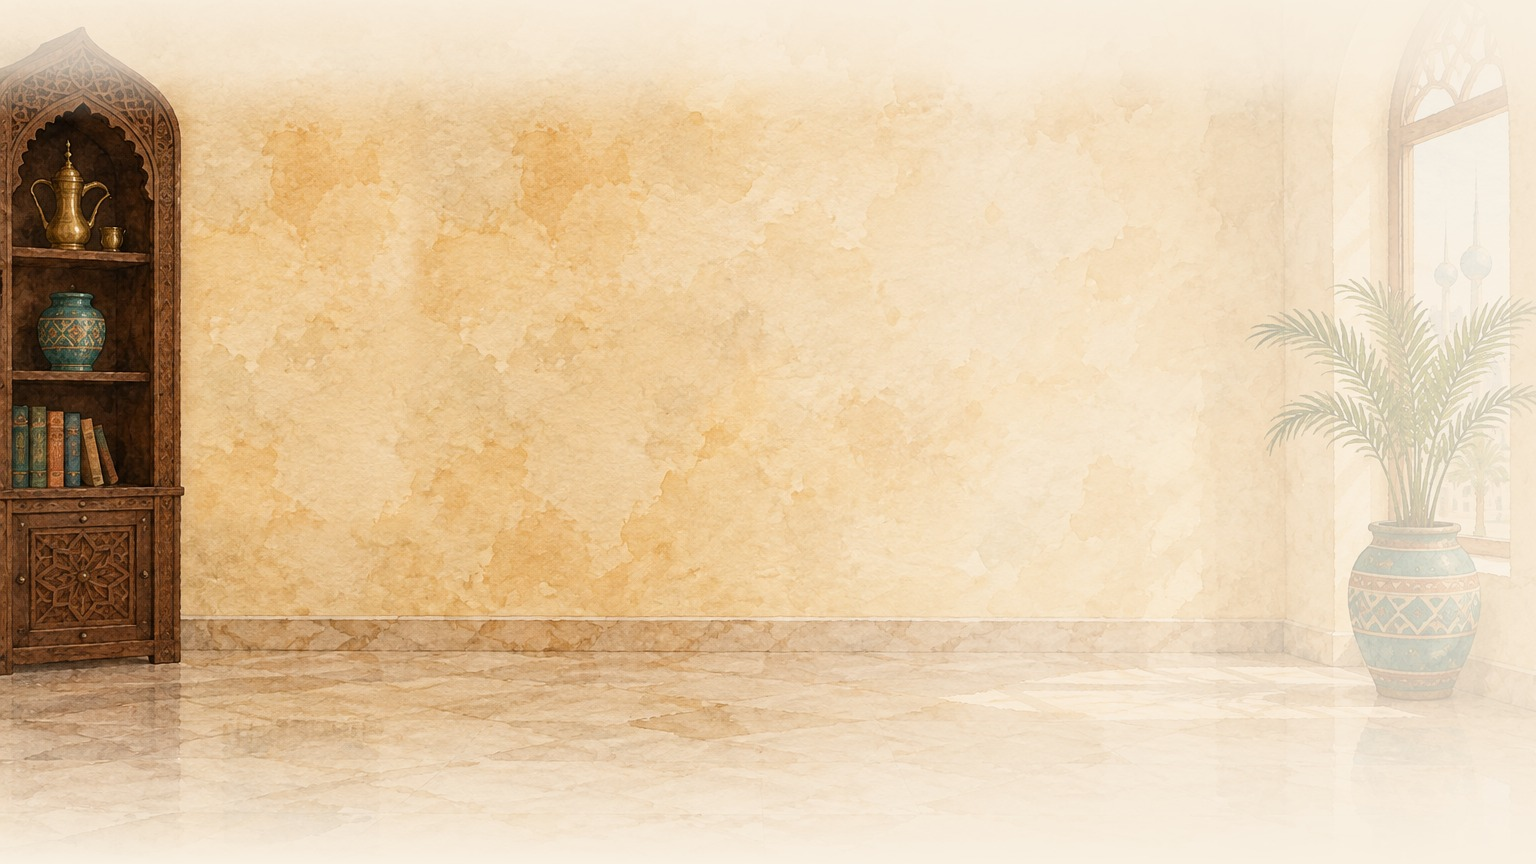
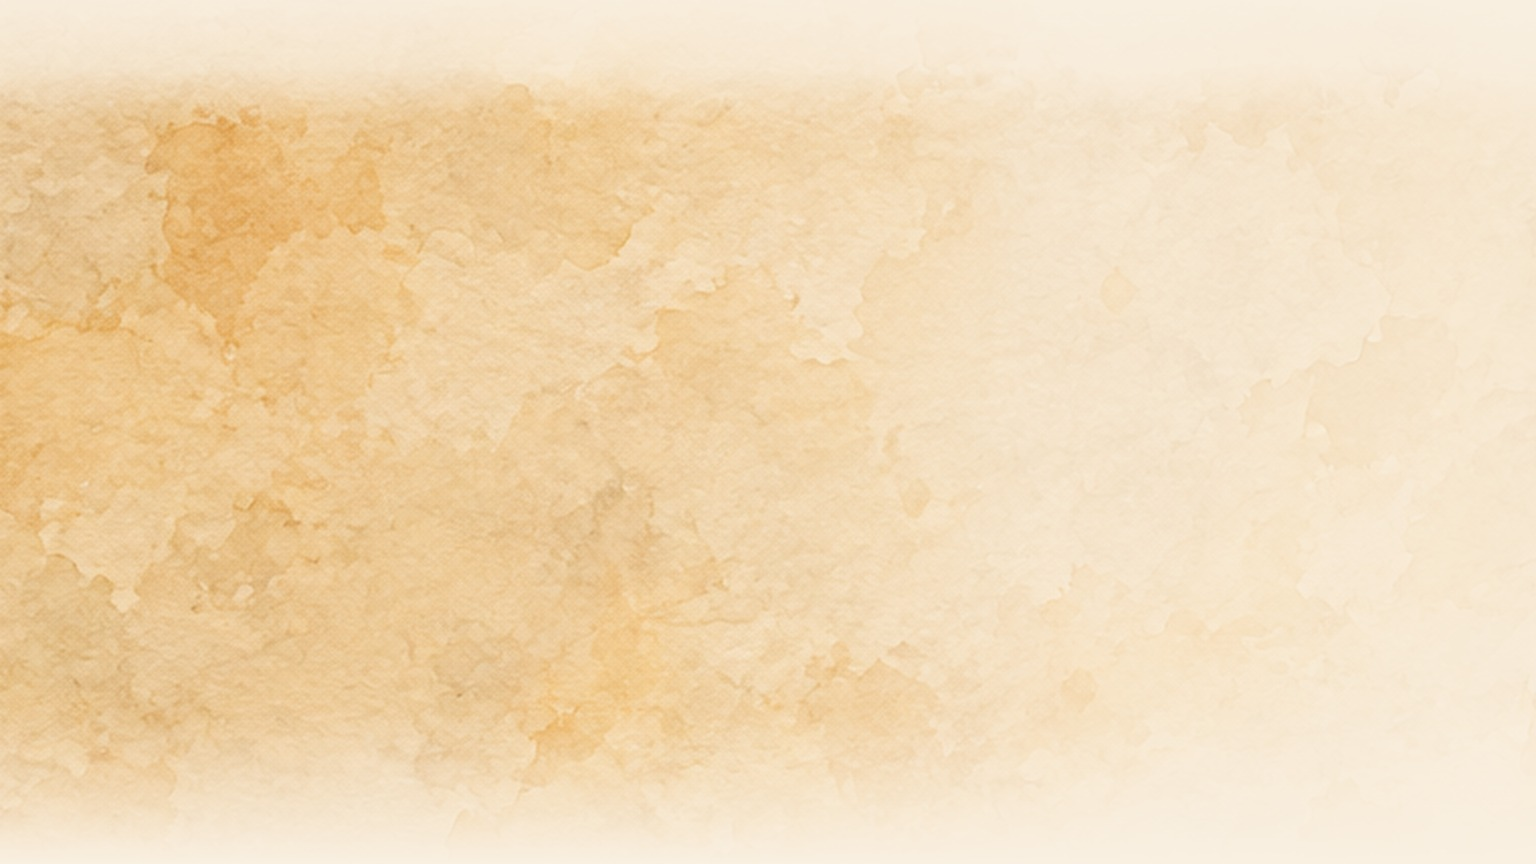
الإعداد: الخلفية جدارٌ جصّيّ وحده — بلا الكبت والأرضيّة، وأخفّ درجة (علي)

diff --git a/src/screens/SetupOpener.css b/src/screens/SetupOpener.css
@@ -83,8 +83,8 @@
   html:not([data-theme='night']) .so-room {
     display:block; position:fixed; inset:0; z-index:-1; pointer-events:none;
     width:100%; height:100%; object-fit:cover; object-position:50% 40%;
-    /* «خفف الخلفية» (علي ٢٧ نوفمبر ٢٠٢٦): تذوب نصفها في الرمليّ تحتها. */
-    opacity:.5;
+    /* «خفف الخلفية» ثمّ «خففها درجة» (علي ٢٧ نوفمبر ٢٠٢٦). */
+    opacity:.38;
   }
   html:not([data-theme='night']) body .screen.setup:has(.so-room) { background:transparent; }
   /* والهيرو بلا أرضيّةٍ سادة: أسفل رسمته يذوب في المجلس الفارغ لا في حدٍّ قشديّ. */
